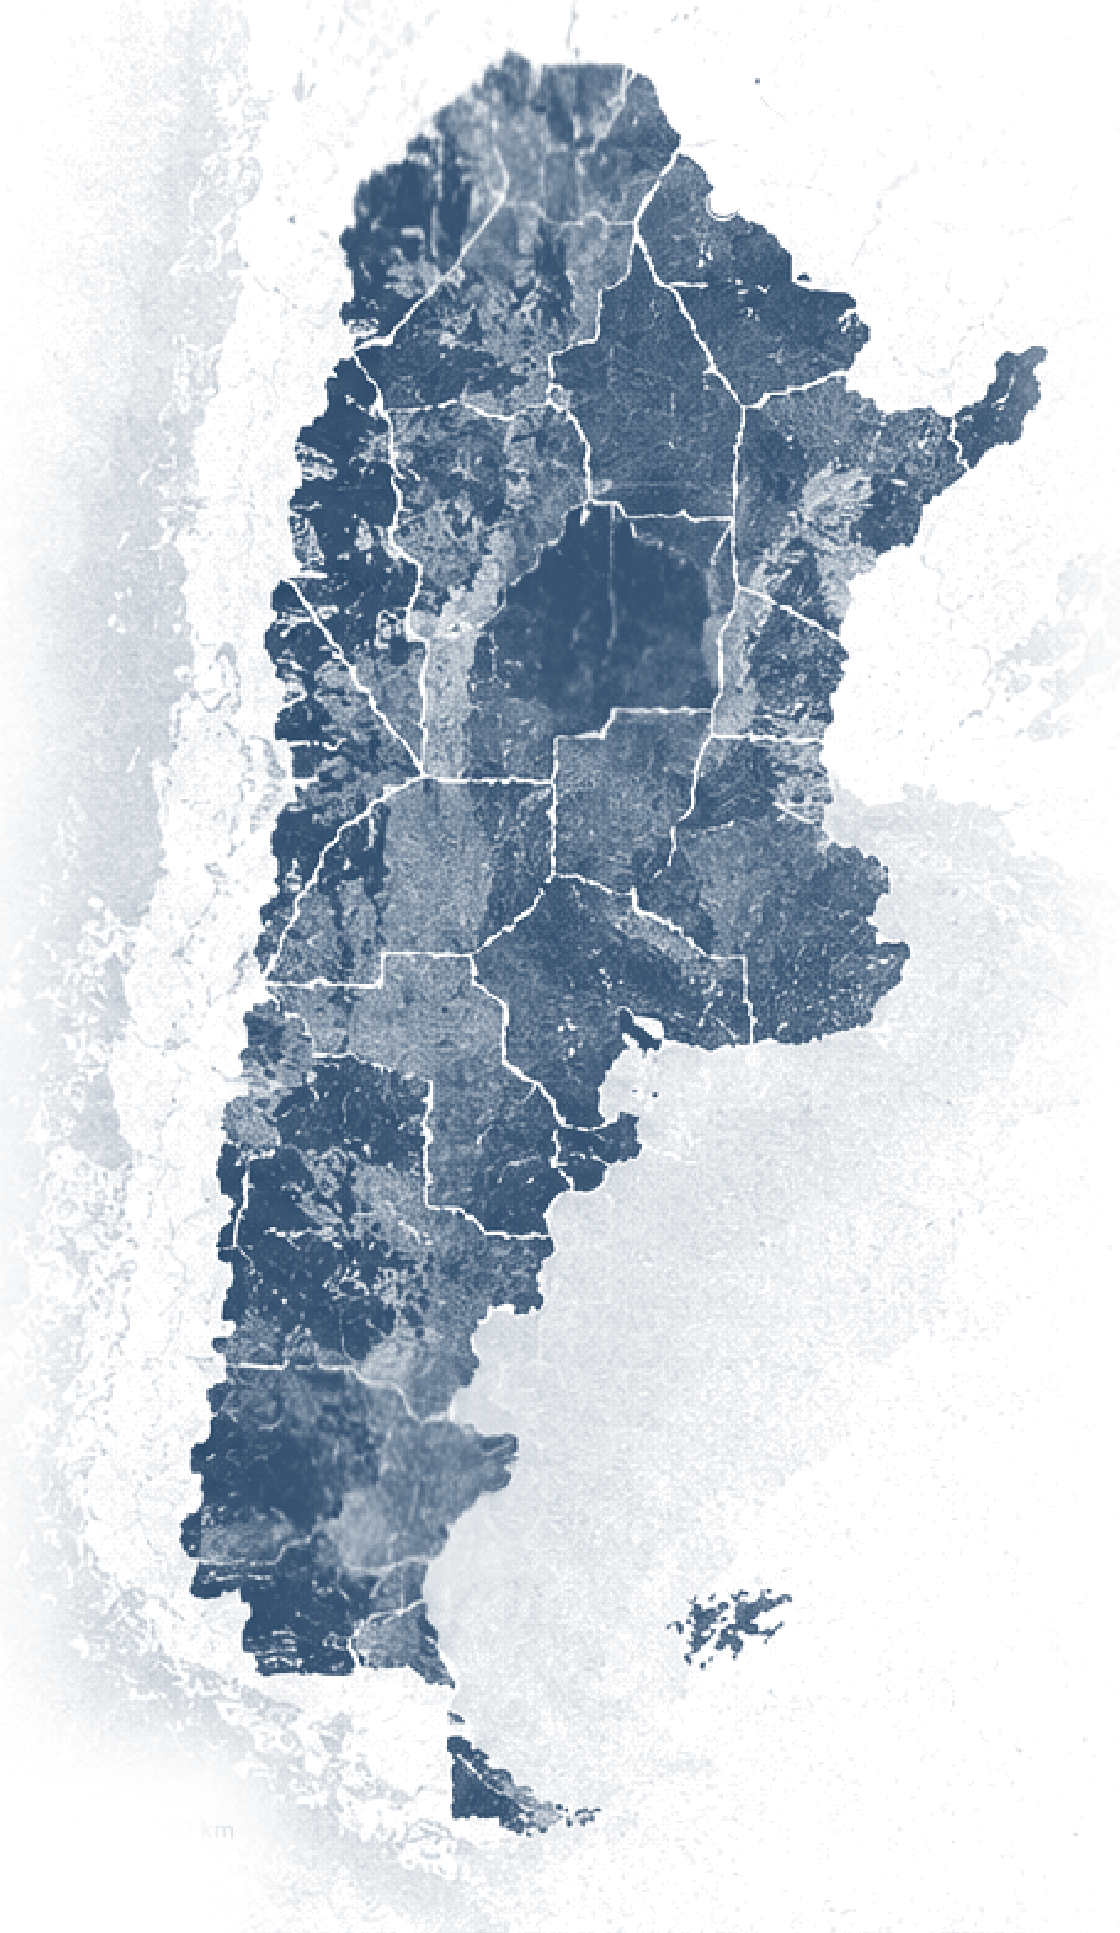
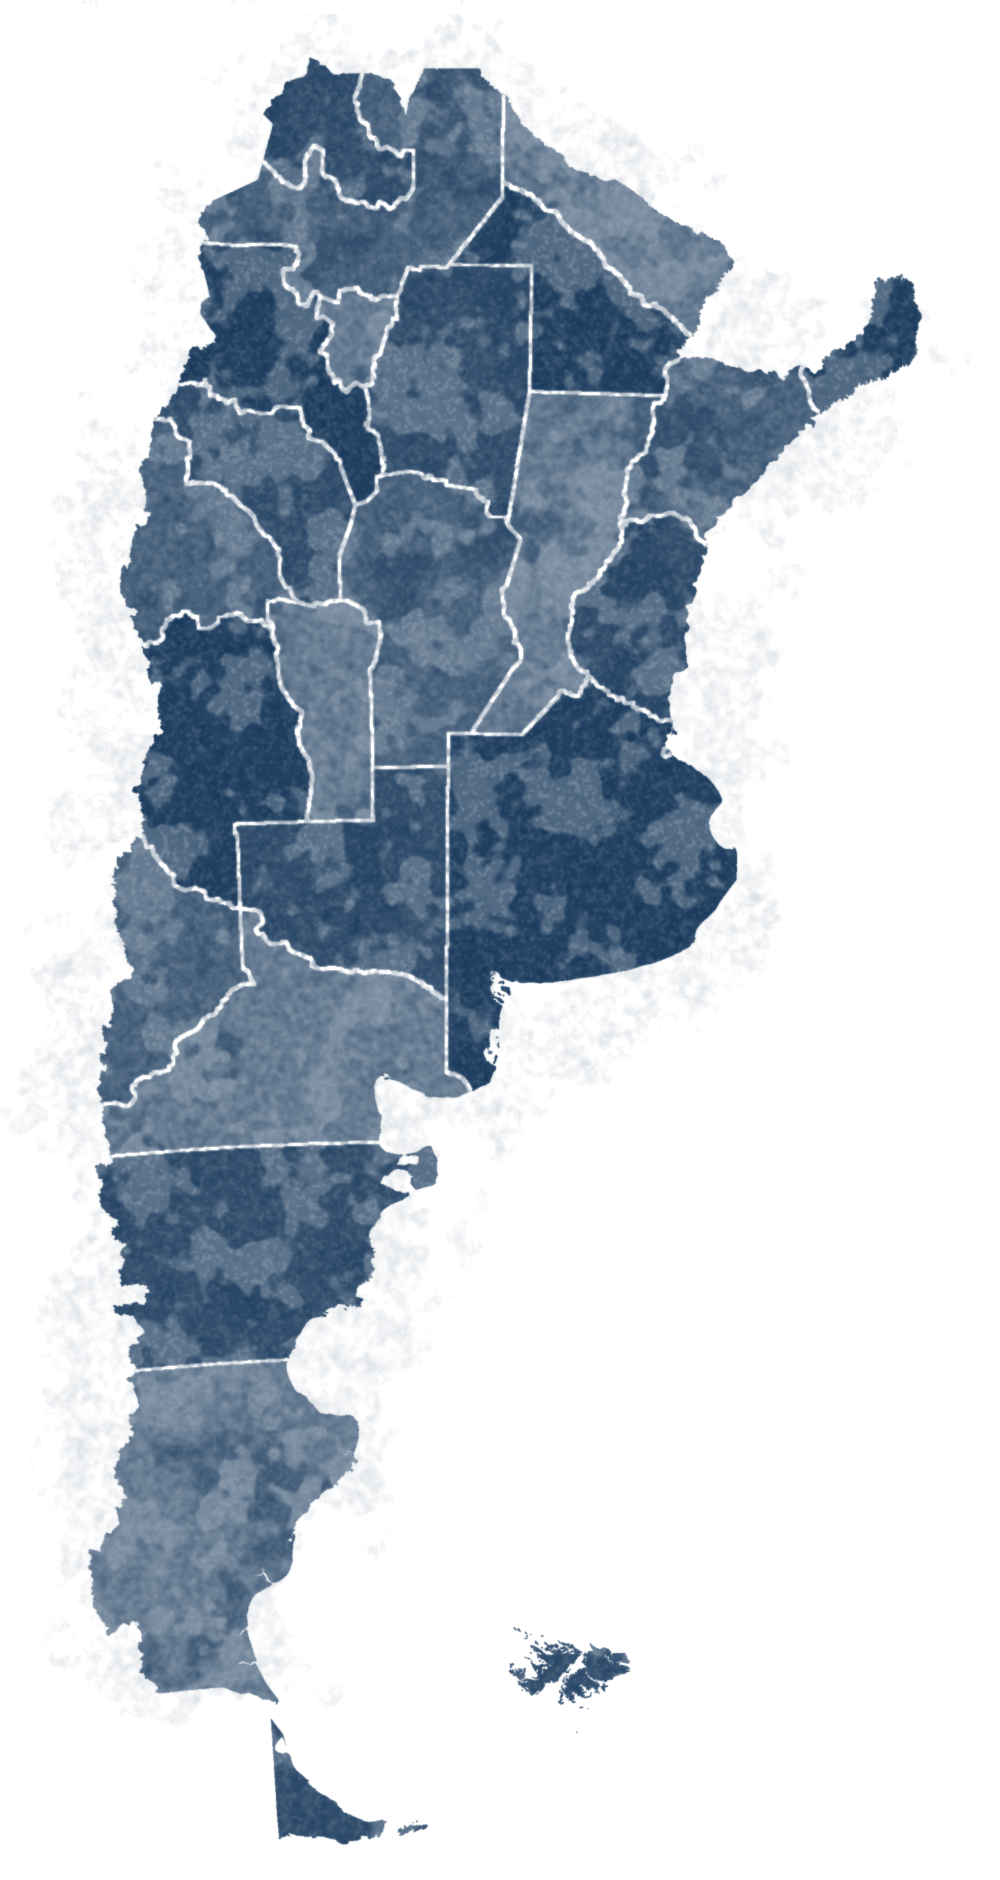
004: mapa nuevo de la web y flor, en una tinta

diff --git a/index.html b/index.html
@@ -5,23 +5,23 @@
 <meta charset="utf-8">
 <meta name="viewport" content="width=1280">
 <title>Darwin en la Argentina — libro</title>
-<link rel="stylesheet" href="styles/tokens.css?v=ba6e112c">
-<link rel="stylesheet" href="styles/typography.css?v=ba6e112c">
-<link rel="stylesheet" href="styles/grid.css?v=ba6e112c">
-<link rel="stylesheet" href="styles/components.css?v=ba6e112c">
-<link rel="stylesheet" href="styles/pages.css?v=ba6e112c">
-<link rel="stylesheet" href="styles/maps.css?v=ba6e112c">
-<link rel="stylesheet" href="styles/paradas.css?v=ba6e112c">
-<link rel="stylesheet" href="styles/registros.css?v=ba6e112c">
-<link rel="stylesheet" href="styles/tramo-03.css?v=ba6e112c">
-<link rel="stylesheet" href="styles/tramo-04-05.css?v=ba6e112c">
-<link rel="stylesheet" href="styles/tramo-05-07.css?v=ba6e112c">
-<link rel="stylesheet" href="styles/tramo-07-10.css?v=ba6e112c">
-<link rel="stylesheet" href="styles/tramo-10-15.css?v=ba6e112c">
-<link rel="stylesheet" href="styles/fotos.css?v=ba6e112c">
-<link rel="stylesheet" href="tapa/tapa.css?v=ba6e112c">
-<link rel="stylesheet" href="styles/medida.css?v=ba6e112c">
-<link rel="stylesheet" href="styles/print.css?v=ba6e112c">
+<link rel="stylesheet" href="styles/tokens.css?v=7bfe227f">
+<link rel="stylesheet" href="styles/typography.css?v=7bfe227f">
+<link rel="stylesheet" href="styles/grid.css?v=7bfe227f">
+<link rel="stylesheet" href="styles/components.css?v=7bfe227f">
+<link rel="stylesheet" href="styles/pages.css?v=7bfe227f">
+<link rel="stylesheet" href="styles/maps.css?v=7bfe227f">
+<link rel="stylesheet" href="styles/paradas.css?v=7bfe227f">
+<link rel="stylesheet" href="styles/registros.css?v=7bfe227f">
+<link rel="stylesheet" href="styles/tramo-03.css?v=7bfe227f">
+<link rel="stylesheet" href="styles/tramo-04-05.css?v=7bfe227f">
+<link rel="stylesheet" href="styles/tramo-05-07.css?v=7bfe227f">
+<link rel="stylesheet" href="styles/tramo-07-10.css?v=7bfe227f">
+<link rel="stylesheet" href="styles/tramo-10-15.css?v=7bfe227f">
+<link rel="stylesheet" href="styles/fotos.css?v=7bfe227f">
+<link rel="stylesheet" href="tapa/tapa.css?v=7bfe227f">
+<link rel="stylesheet" href="styles/medida.css?v=7bfe227f">
+<link rel="stylesheet" href="styles/print.css?v=7bfe227f">
 </head>
 <body>
 <div class="spread"><div class="slot--empty"></div><section class="page page--cover page--right front" id="ptapa">
@@ -79,8 +79,10 @@
 </div>
 <div class="spread"><!-- 004 · Introducción – El recorte argentino — fuente: Darwin_textos_para_maquetar_v2.pdf, entrada 003. -->
 <section class="page page--left" id="p004" data-page="004" data-section="Apertura" lang="es">
-  <!-- Mapa muy tenue como fondo. PROVISORIO: mapa ilustrado de la web, no es cartografía a escala. -->
-  <img class="p004__map" src="assets/maps/argentina-tenue.png" alt="">
+  <!-- Mapa muy tenue como fondo: es el mapa ilustrado de la web (versión del 12 oct. 2026), en una tinta; no es cartografía a escala.
+       La flor es la del fondo de la web, también en una tinta. Los prepara tools/mapa004.py. -->
+  <img class="p004__map" src="assets/maps/argentina-tenue.png?v=e875157e" alt="">
+  <img class="p004__flor" src="assets/images/004-flor.png?v=492c5fe4" alt="">
   <div class="page__box">
     <p class="p004__kicker t-label">Introducción</p>
     <h1 class="p004__title t-display-line">El recorte argentino</h1>
@@ -227,7 +229,7 @@
 </div>
 <div class="spread"><!-- 008 · Mapa general del recorrido I — fuente: Darwin_textos_para_maquetar_v2.pdf, entrada 007.
      Fechas sintéticas tomadas de la cronología (010–011) y de la metadata de cada parada en el v2.
-     Mapa: assets/maps/general.svg, generado por tools/mapas.mjs. Cartografía real: Natural Earth 1:10m (tools/geodatos.py). -->
+     Mapa: assets/maps/general.svg?v=4fd9d2fa, generado por tools/mapas.mjs. Cartografía real: Natural Earth 1:10m (tools/geodatos.py). -->
 <section class="page page--left" id="p008" data-page="008" data-section="Apertura" lang="es">
   <div class="page__box">
     <h1 class="p008__title t-display-line">Mapa general del recorrido</h1>
@@ -315,7 +317,7 @@
   <div class="page__folio"><b>008</b><span>Apertura</span></div>
 </section>
 <!-- 009 · Mapa general del recorrido II — fuente: Darwin_textos_para_maquetar_v2.pdf, entrada 008.
-     Mapa: assets/maps/detalle.svg, generado por tools/mapas.mjs. Cartografía real: Natural Earth 1:10m (tools/geodatos.py). -->
+     Mapa: assets/maps/detalle.svg?v=fbcc95e1, generado por tools/mapas.mjs. Cartografía real: Natural Earth 1:10m (tools/geodatos.py). -->
 <section class="page page--right" id="p009" data-page="009" data-section="Apertura" lang="es">
   <div class="page__box">
     <div class="p009__map"><svg class="map" viewBox="0 0 92.34 126.00" aria-hidden="true">
@@ -487,7 +489,7 @@
 </section>
 <!-- 013 · Llegar a un paisaje distinto — fuente: Darwin_textos_para_maquetar_v2.pdf, entrada 012.
      Cotejado con la capa de texto del escaneo (págs. 291–292 del libro): coincide.
-     Mapa: assets/maps/tramo-01.svg, generado por tools/tramo01.mjs. Cartografía real: Natural Earth 1:10m (tools/geodatos.py). -->
+     Mapa: assets/maps/tramo-01.svg?v=2efbf6bf, generado por tools/tramo01.mjs. Cartografía real: Natural Earth 1:10m (tools/geodatos.py). -->
 <section class="page page--right" id="p013" data-page="013" data-section="01 Bahía del Buen Suceso" lang="es">
   <div class="page__box">
     <div class="p013__map"><svg class="map" viewBox="0 0 188 76.5" aria-hidden="true">
@@ -617,7 +619,7 @@
      Cotejo con la capa de texto del escaneo (pág. 91 del libro, cap. IV). La fuente dice «24 de julio 1833.—El Beagle
      zarpó de Maldonado y el 3 de agosto llegó…»; el v2 arranca en «3 de agosto llegó», sin sujeto. Se compone
      «El Beagle […] el 3 de agosto llegó», con palabras de la fuente y el corte marcado (Maldonado queda fuera: Uruguay).
-     Mapa: assets/maps/tramo-02.svg, generado por tools/tramo02.mjs. Cartografía real: Natural Earth 1:10m (tools/geodatos.py). -->
+     Mapa: assets/maps/tramo-02.svg?v=c928d68e, generado por tools/tramo02.mjs. Cartografía real: Natural Earth 1:10m (tools/geodatos.py). -->
 <section class="page page--left" id="p018" data-page="018" data-section="02 Carmen de Patagones / Río Negro" lang="es">
   <div class="page__box">
     <p class="p018__meta stopline t-meta"><b>02</b> 3–10 ago. 1833</p>
@@ -2550,7 +2552,7 @@
 </div>
 <div class="spread"><!-- 102 · Mapa final del recorrido — fuente: Darwin_textos_para_maquetar_v2.pdf, entrada 101.
      Nombres, números y fechas: los de 008–008. Medio de viaje de cada parada: tomado de los fragmentos del libro.
-     Mapa: assets/maps/general.svg (el mismo de 008), generado por tools/mapas.mjs. Cartografía real: Natural Earth 1:10m (tools/geodatos.py). -->
+     Mapa: assets/maps/general.svg?v=4fd9d2fa (el mismo de 008), generado por tools/mapas.mjs. Cartografía real: Natural Earth 1:10m (tools/geodatos.py). -->
 <section class="page page--left" id="p102" data-page="102" data-section="Cierre" lang="es">
   <div class="page__box">
     <h1 class="p102__title t-display-line">Mapa final del recorrido</h1>

diff --git a/pages/004.html b/pages/004.html
@@ -1,7 +1,9 @@
 <!-- 004 · Introducción – El recorte argentino — fuente: Darwin_textos_para_maquetar_v2.pdf, entrada 003. -->
 <section class="page" data-page="004" data-section="Apertura" lang="es">
-  <!-- Mapa muy tenue como fondo. PROVISORIO: mapa ilustrado de la web, no es cartografía a escala. -->
+  <!-- Mapa muy tenue como fondo: es el mapa ilustrado de la web (versión del 12 oct. 2026), en una tinta; no es cartografía a escala.
+       La flor es la del fondo de la web, también en una tinta. Los prepara tools/mapa004.py. -->
   <img class="p004__map" src="assets/maps/argentina-tenue.png" alt="">
+  <img class="p004__flor" src="assets/images/004-flor.png" alt="">
   <div class="page__box">
     <p class="p004__kicker t-label">Introducción</p>
     <h1 class="p004__title t-display-line">El recorte argentino</h1>

diff --git a/styles/medida.css b/styles/medida.css
@@ -291,3 +291,6 @@
 
 /* 024: la imagen llega también hasta el lomo (la mitad de la doble): ocupa todo el ancho de la página (12 oct. 2026) */
 .p024__image { margin-right: calc(var(--margin-inner) * -1); }
+
+/* 004: mapa nuevo de la web y flor, muy tenues (12 oct. 2026). La flor sale a sangre por la esquina inferior izquierda */
+.p004__flor { position: absolute; left: 0; bottom: 0; height: 46mm; opacity: var(--tenue); }

diff --git a/tools/mapa004.py b/tools/mapa004.py
@@ -1,0 +1,30 @@
+# Mapa y flor de la página 004, tomados de la imagen de fondo de la web (WEB/Darwin-Explorar/assets/mapa-argentina.png,
+# copiada en assets/images/originales/004-mapa-web.png). Salen en una sola tinta (el azul del libro) con transparencia:
+# lo oscuro del original pasa a tinta y el papel a transparente. La página los muestra muy tenues (opacidad --tenue).
+# Uso: py tools/mapa004.py
+import os
+import numpy as np
+from PIL import Image, ImageFilter
+
+ROOT = os.path.dirname(os.path.dirname(os.path.abspath(__file__)))
+INK = (0x1A, 0x3A, 0x5C)
+src = Image.open(os.path.join(ROOT, 'assets', 'images', 'originales', '004-mapa-web.png')).convert('L')
+
+def tinta(caja, salida, borrar=(), borde=0):
+    g = np.asarray(src.crop(caja).filter(ImageFilter.GaussianBlur(0.6))).astype(float)
+    papel = np.percentile(g, 90)                      # nivel del papel en ese recorte
+    alfa = np.clip((papel - 10 - g) / (papel - 10 - 45), 0, 1) ** 0.85
+    for x0, y0, x1, y1 in borrar:                     # borrado con borde difuminado (30 px), para no cortar el halo en seco
+        yy, xx = np.mgrid[0:alfa.shape[0], 0:alfa.shape[1]]
+        fuera = np.maximum.reduce([x0 - xx, xx - x1, y0 - yy, yy - y1])
+        alfa *= np.clip(fuera / 30, 0, 1)
+    if borde:                                         # se funde hacia los bordes libres (arriba y derecha)
+        h, w = alfa.shape
+        alfa *= np.clip(np.arange(h)[:, None] / borde, 0, 1) * np.clip((w - 1 - np.arange(w))[None, :] / borde, 0, 1)
+    out = np.zeros(alfa.shape + (4,), np.uint8); out[..., :3] = INK; out[..., 3] = (alfa * 255).round()
+    Image.fromarray(out).save(os.path.join(ROOT, 'assets', salida)); print(salida, out.shape[1], 'x', out.shape[0])
+
+# mapa: se borra la esquina donde asoma la escala gráfica
+tinta((1330, 230, 2330, 2110), os.path.join('maps', 'argentina-tenue.png'), borrar=[(-40, 1790, 160, 1920)])
+# flor: esquina inferior izquierda del original (sale a sangre por la izquierda y por abajo)
+tinta((0, 1210, 960, 2168), os.path.join('images', '004-flor.png'), borde=40)

diff --git a/BOOK_PROGRESS.md b/BOOK_PROGRESS.md
@@ -532,3 +532,4 @@ Se reemplazaron los 39 recuadros de imagen pendiente por ilustraciones generadas
 - 2026-10-12 · 024: la imagen de la salina llega también hasta el lomo: ocupa todo el ancho de la página, a sangre a la izquierda y abajo (pedido de Patricio; caja 210 × 43,5 mm, 186 ppp). Solo CSS e imagen: sigue bloqueada.
 - 2026-10-12 · 007: el esquema de las fichas se reemplaza por el mockup de las fichas de campo (original assets/images/originales/007-mockup-fichas.webp, recortado de su fondo por tools/recorte.py → assets/images/007-mockup-fichas.png, 1507 × 810 px, ~650 ppp en su caja). HTML de 007 cambiado: re-aprobada. Queda resuelto el pendiente «mockup de fichas para 007».
 - 2026-10-12 · 007: el mockup del mapa digital se reemplaza por el nuevo, con notebook y teléfono (original assets/images/originales/mockup-web-2.webp, recortado por tools/recorte.py → assets/images/007-mockup-web.png, 1390 × 665 px). Se actualiza la descripción de la imagen; 007 re-aprobada. La pantalla sigue diciendo «nueve paradas» (es la captura de la web).
+- 2026-10-12 · 004: el mapa de fondo se reemplaza por el mapa nuevo de la web (WEB/Darwin-Explorar/assets/mapa-argentina.png, copia en assets/images/originales/004-mapa-web.png), pasado a una tinta con transparencia y mostrado muy tenue, como el anterior (tools/mapa004.py → assets/maps/argentina-tenue.png, 1000 × 1880 px). Se suma la flor del fondo de la web, también en una tinta y tenue, a sangre en la esquina inferior izquierda (assets/images/004-flor.png, 46 mm de alto). build.mjs: el sello de versión cubre también assets/maps. HTML de 004 cambiado: re-aprobada.
